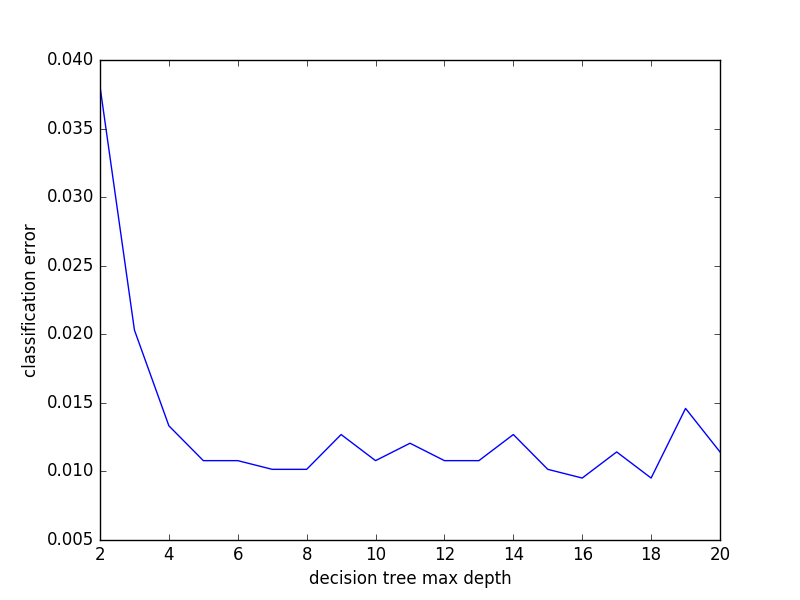
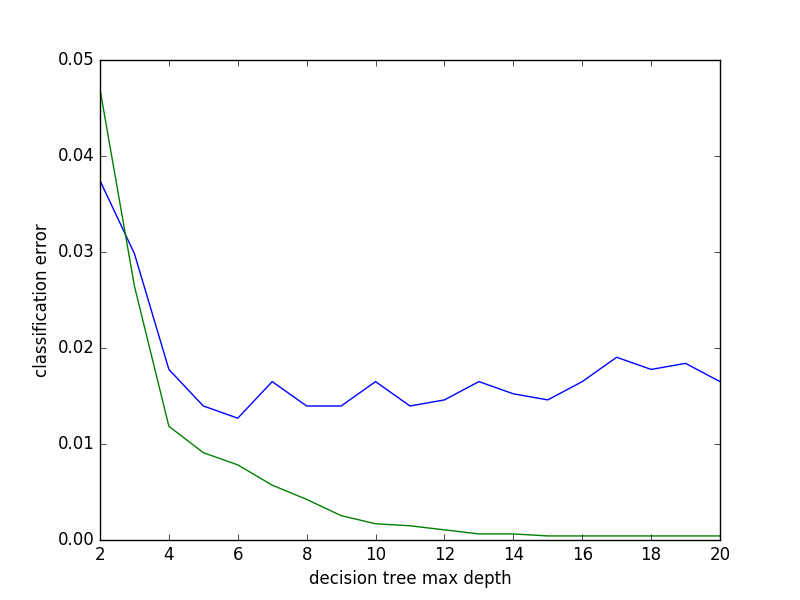
Also plot classification error on the training set.

diff --git a/answers/assignment3_2_HendrikWerner_s4549775_ConstantinBlach_s4329872.py b/answers/assignment3_2_HendrikWerner_s4549775_ConstantinBlach_s4329872.py
@@ -10,22 +10,25 @@ from sklearn.model_selection import train_test_split, KFold
 
 # Calculate classification errors for different tree depths.
 def classification_errors(X_train, y_train, X_test, y_test, depths):
-    errors = []
+    errors_test = []
+    errors_train = []
     for depth in depths:
         decision_tree = tree.DecisionTreeClassifier(max_depth=depth)
         decision_tree.fit(X_train, y_train)
-        errors.append(1 - decision_tree.score(X_test, y_test))
-    return errors
+        errors_test.append(1 - decision_tree.score(X_test, y_test))
+        errors_train.append(1 - decision_tree.score(X_train, y_train))
+    return errors_test, errors_train
 
 
 # Plot the tree depth against the classification error.
-def plot_error(
-        depths, errors,
+def plot_errors(
+        depths, errors_list,
         xlabel="decision tree max depth",
         ylabel="classification error"
 ):
     f = plt.subplot(111)
-    f.plot(depths, errors)
+    for errors in errors_list:
+        f.plot(depths, errors)
     f.set_xlabel(xlabel)
     f.set_ylabel(ylabel)
     plt.show()
@@ -38,21 +41,28 @@ y = wine_data["y"]
 X_train, X_test, y_train, y_test = train_test_split(X, y)
 depths = range(2, 21)
 errors = classification_errors(X_train, y_train, X_test, y_test, depths)
-plot_error(depths, errors)
+plot_errors(depths, errors)
 
 # assignment 3.2.2
 kf = KFold(n_splits=10, shuffle=True)
-errors_list = []
+errors_list_test = []
+errors_list_train = []
 for train_index, test_index in kf.split(X):
-    errors_list.append(classification_errors(
+    errors_test, errors_train = classification_errors(
         X[train_index],
         y[train_index],
         X[test_index],
         y[test_index],
         depths
-    ))
+    )
+    errors_list_test.append(errors_test)
+    errors_list_train.append(errors_train)
 
-errors_list = array(errors_list)
-average_errors = [col.mean() for col in (errors_list[:, i] for i in range(errors_list.shape[1]))]
 
-plot_error(depths, average_errors, ylabel="average classification error")
+def average_errors(errors_list):
+    errors_list = array(errors_list)
+    return [col.mean() for col in (errors_list[:, i] for i in range(errors_list.shape[1]))]
+
+
+average_errors = (average_errors(errors_list_test), average_errors(errors_list_train))
+plot_errors(depths, average_errors, ylabel="average classification error")
